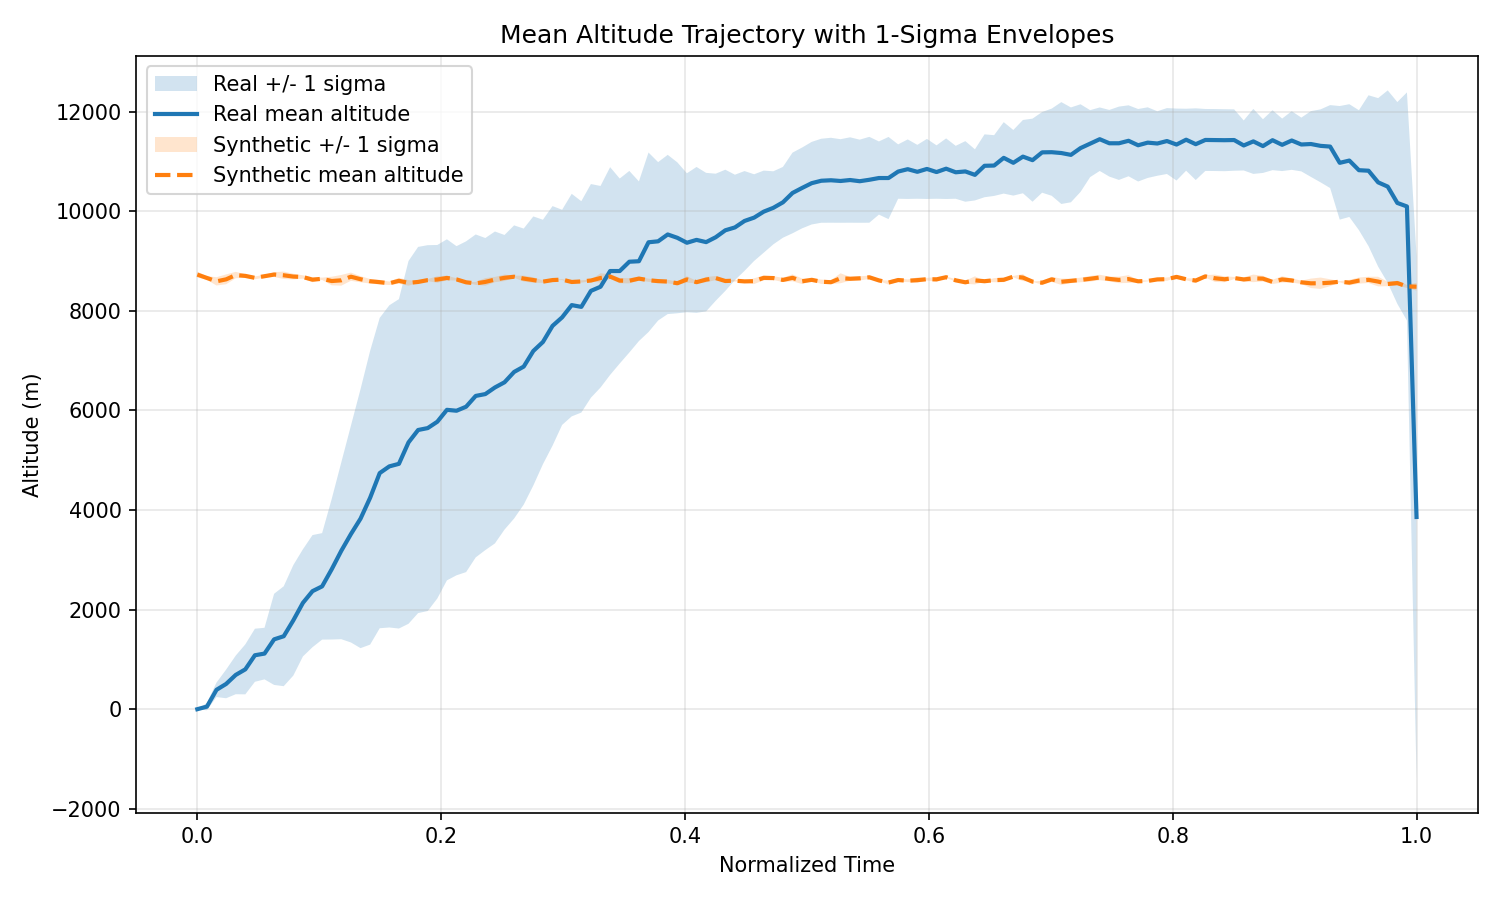
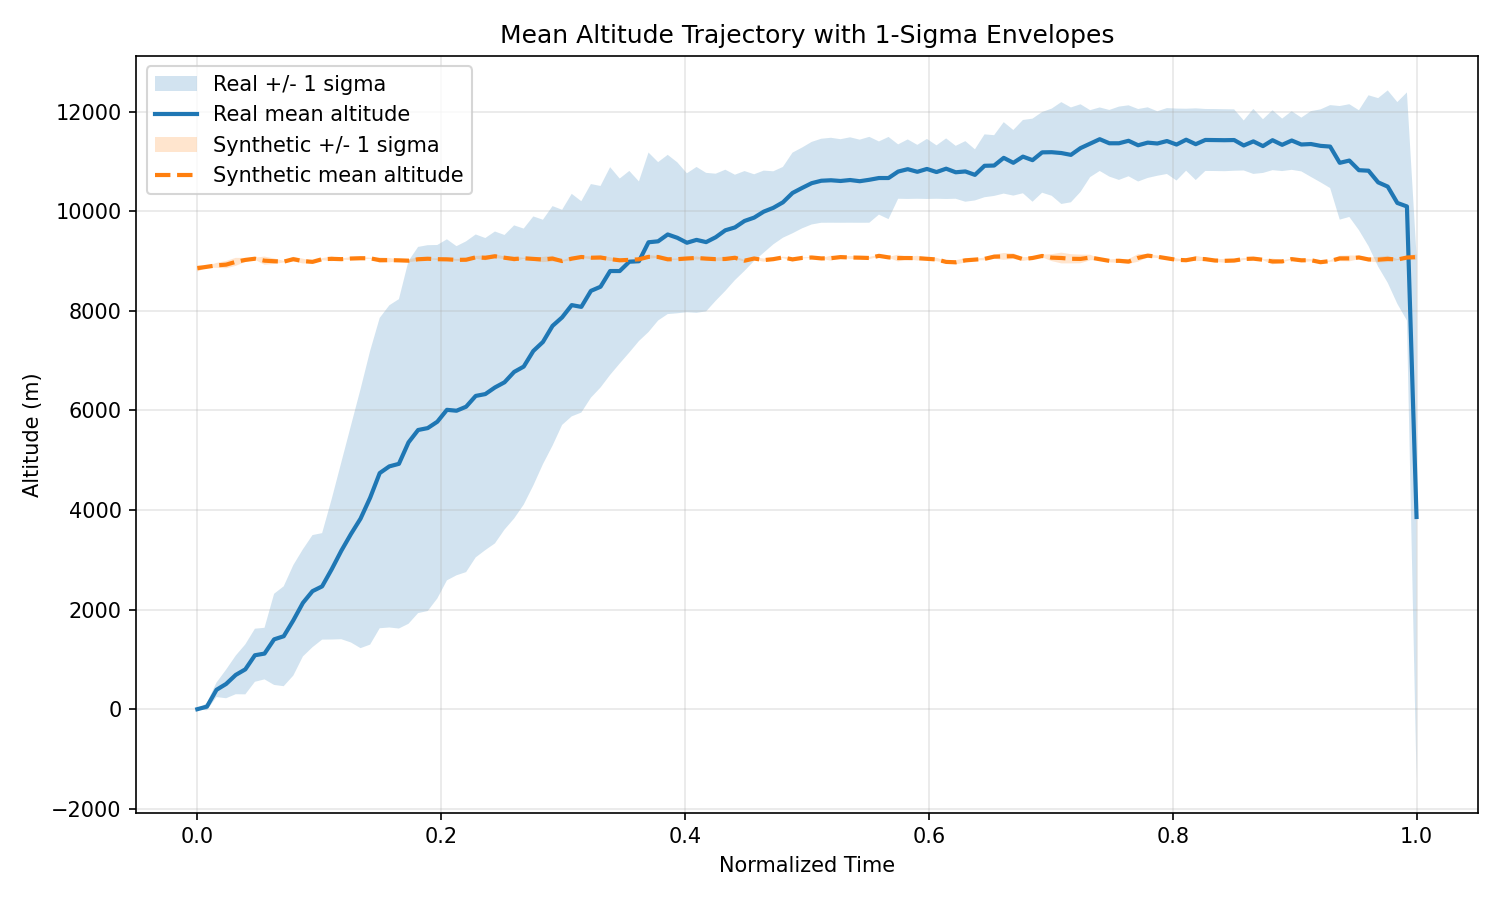
added loss plots

Changed region(s): [[0.1227, 0.28, 0.9507, 0.3422]]

diff --git a/gan_timeseries_data.py b/gan_timeseries_data.py
@@ -316,6 +316,12 @@ def parse_args() -> argparse.Namespace:
         help="Output path for the mean trajectory plus 1-sigma envelope plot.",
     )
     parser.add_argument(
+        "--loss-plot-path",
+        type=Path,
+        default=Path("gan_timeseries_training_losses.png"),
+        help="Output path for the GAN training loss plot.",
+    )
+    parser.add_argument(
         "--raw-data-plot-path",
         type=Path,
         default=Path("gan_timeseries_loaded_altitude.png"),
@@ -899,6 +905,44 @@ def save_trajectory_envelope_plot(
     axis.set_xlabel("Normalized Time")
     axis.set_ylabel("Altitude (m)")
     axis.set_title("Mean Altitude Trajectory with 1-Sigma Envelopes")
+    axis.grid(True, alpha=0.3)
+    axis.legend()
+    fig.tight_layout()
+    fig.savefig(output_path, dpi=150)
+    plt.close(fig)
+
+
+def save_training_loss_plot(
+    history: dict[str, list[float]],
+    output_path: Path,
+) -> None:
+    import matplotlib.pyplot as plt
+
+    generator_loss = history["generator_loss"]
+    discriminator_loss = history["discriminator_loss"]
+    overall_loss = [
+        generator_value + discriminator_value
+        for generator_value, discriminator_value in zip(
+            generator_loss,
+            discriminator_loss,
+            strict=True,
+        )
+    ]
+    epoch_axis = list(range(1, len(generator_loss) + 1))
+
+    fig, axis = plt.subplots(figsize=(10, 6))
+    axis.plot(epoch_axis, discriminator_loss, label="Discriminator loss", linewidth=2.0)
+    axis.plot(epoch_axis, generator_loss, label="Generator loss", linewidth=2.0)
+    axis.plot(
+        epoch_axis,
+        overall_loss,
+        label="Overall loss",
+        linewidth=2.0,
+        linestyle="--",
+    )
+    axis.set_xlabel("Epoch")
+    axis.set_ylabel("Loss")
+    axis.set_title("GAN Training Loss History")
     axis.grid(True, alpha=0.3)
     axis.legend()
     fig.tight_layout()
@@ -1507,9 +1551,14 @@ def main() -> None:
             synthetic_trajectories=synthetic_trajectories,
             output_path=args.trajectory_envelope_plot_path,
         )
+        save_training_loss_plot(
+            history=history,
+            output_path=args.loss_plot_path,
+        )
         print(f"Saved comparison plot to: {args.plot_path}")
         print(f"Saved trajectory overlay plot to: {args.trajectory_overlay_plot_path}")
         print(f"Saved trajectory envelope plot to: {args.trajectory_envelope_plot_path}")
+        print(f"Saved training loss plot to: {args.loss_plot_path}")
 
 
 if __name__ == "__main__":